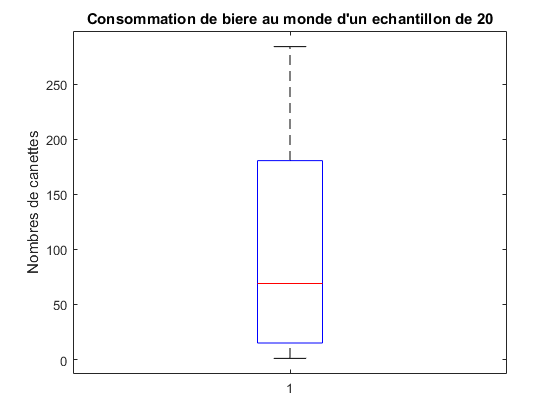
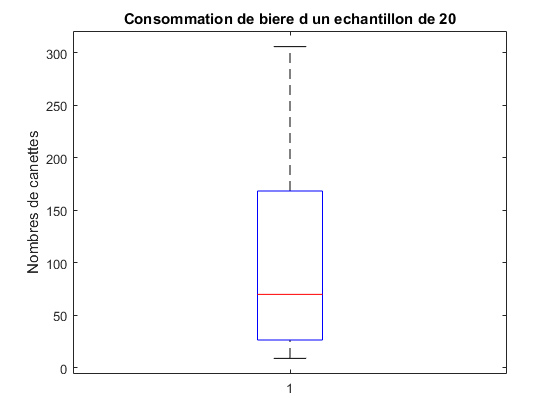
Title

diff --git a/Q2a.m b/Q2a.m
@@ -29,13 +29,13 @@ std_spirit = std(spirit_data);
 
 figure;
 boxplot(beer_data);
-title("Consommation de biere au monde d un echantillon de 20");
+title("Consommation de biere d un echantillon de 20");
 ylabel("Nombres de canettes");
 
 
 figure;
 boxplot(spirit_data);
-title("Consommation d alcool fort au monde d un echantillon de 20");
+title("Consommation d alcool fort d un echantillon de 20");
 ylabel("Nombres de shots");
 
 figure;

diff --git a/Q4a.m b/Q4a.m
@@ -26,7 +26,7 @@ for j = 1:100
         %Calcul de la borne 
         proportion = 0.95;
         ecart_type = sqrt(proportion*(1-proportion)/n);
-        u = 0.82894;
+        u = 1.62;
         borne = proportion - (u*ecart_type);
        
         
